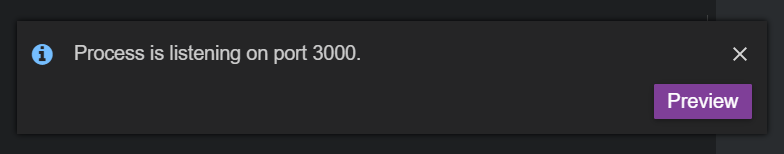
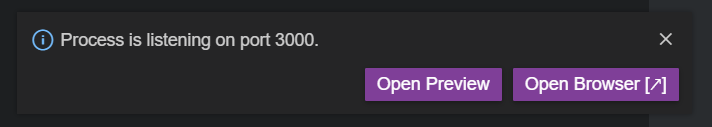
wip: update editor docs

Changed region(s): [[0.4944, 0.5197, 0.9579, 0.8031], [0.0309, 0.2362, 0.4635, 0.4252], [0.927, 0.2598, 0.9579, 0.4016]]

diff --git a/src/docs/markdowns/editor/index.md b/src/docs/markdowns/editor/index.md
@@ -15,10 +15,13 @@ Codeanywhere offers their users the ability to preview their app progress via pu
 
 <p><img src="/images/editor/introduction/open-preview-ports.png" alt="Enable Preview Ports" class="width-90"/></p>
 
-If your app is running, it should show up in the Preview Ports widget. Your open ports will be listed inside the widget with the option to open:
+If your app is running, it should show up in the Preview Ports widget. The running processes will be listed inside the widget with the option to select:
 
-- **Preview port**: Only accessible by you while logged into Codeanywhere.
-- **Public port:** Accessible to everyone, but the app **must be running on** <code>0.0.0.0</code>.
+- **Preview**: Opens your private app link in the <code>Preview</code> widget inside the IDE.
+- **Private**: Opens your app in a new browser tab. The link is only accessible to you if you're logged in to your Codeanywhere account.
+- **Public:** Opens your app in a new browser tab. The link is publicly accessible to anyone. The app **must be running on** <code>0.0.0.0</code>.
+- **Exit**: Gracefully terminates your app. This action can be blocked, handled, and ignored.
+- **Kill:** Immediately terminates your app.
 
 <p><img src="/images/editor/introduction/preview-ports-widget.png" alt="Preview Ports widget" class="width-90"/></p>
 
@@ -42,6 +45,6 @@ The <code>Projects</code> view allows you to easily switch between multiple proj
 
 Projects will also help you with cloning and opening a Git repository. Just click on <code>Clone an existing project</code> and enter your repository SSH URL and we will take care of the rest.
 
-<p><img src="/images/editor/introduction/projects-widget.png" alt="Projects widget" class="width-90"/></p>
+<p><img src="/images/editor/introduction/projects-widget.png" alt="Projects widget" class="width-60"/></p>
 
 **Note:** Your Codeanywhere account must be authorized with the appropriate Git provider to successfully clone a repository. Not sure how to do that? Find out [here](/dashboard/connected-accounts/git-providers).

diff --git a/src/docs/markdowns/general/getting-started/faq.md b/src/docs/markdowns/general/getting-started/faq.md
@@ -205,6 +205,6 @@ Go to <code>File -> Open</code> and click the _up_ arrow to see your old files.
 
 <p><img src="/images/general/getting-started/old-files.png" alt="Old files" class="width-60"/></p>
 
-### <a name="tabspace-repeated-characters" href="#tabspace-repeated-characters" class="anchor-link"><img src="/images/anchor.svg" alt="Link anchor" class="anchor-img"></a>If I press the tabspace key, the last word is automatically repeated, how can i fix it?
+### <a name="if-i-press-the-tab-key-the-last-word-is-automatically-repeated-how-can-i-fix-it" href="#if-i-press-the-tab-key-the-last-word-is-automatically-repeated-how-can-i-fix-it" class="anchor-link"><img src="/images/anchor.svg" alt="Link anchor" class="anchor-img"></a>If I press the tab key, the last word is automatically repeated. How can I fix it?
 
 In mobile devices the keyboard default configuration has autocomplete functions activated. You need to disable predictive text, automatic replacement, and automatic spell check and it will work fine without duplicated text.

diff --git a/src/docs/markdowns/editor/introduction/how-to-access.md b/src/docs/markdowns/editor/introduction/how-to-access.md
@@ -1,7 +1,7 @@
 # How to Access the IDE?
 
-Before you can access the IDE, you have to [create a new container](/dashboard/containers/create-new-container). The new container will now be visible in your <code>Containers</code> tab. Click the <code>Open IDE</code> button to access the IDE and start coding!
+Before you can access the IDE, you have to [create a new container](/dashboard/containers/create-new-container). The new container will now be visible in the <code>Home</code> and <code>Containers</code> pages. Click the <code>Open IDE</code> button to access the IDE and start coding!
 
-<p><img src="/images/editor/introduction/open-ide.png" alt="Open IDE" class="width-60"/></p>
+<p><img src="/images/editor/introduction/open-ide.png" alt="Open IDE" class="width-80"/></p>
 
 **Note**: Your container has to be in a <code>Started</code> state for you to be able to open the IDE.
